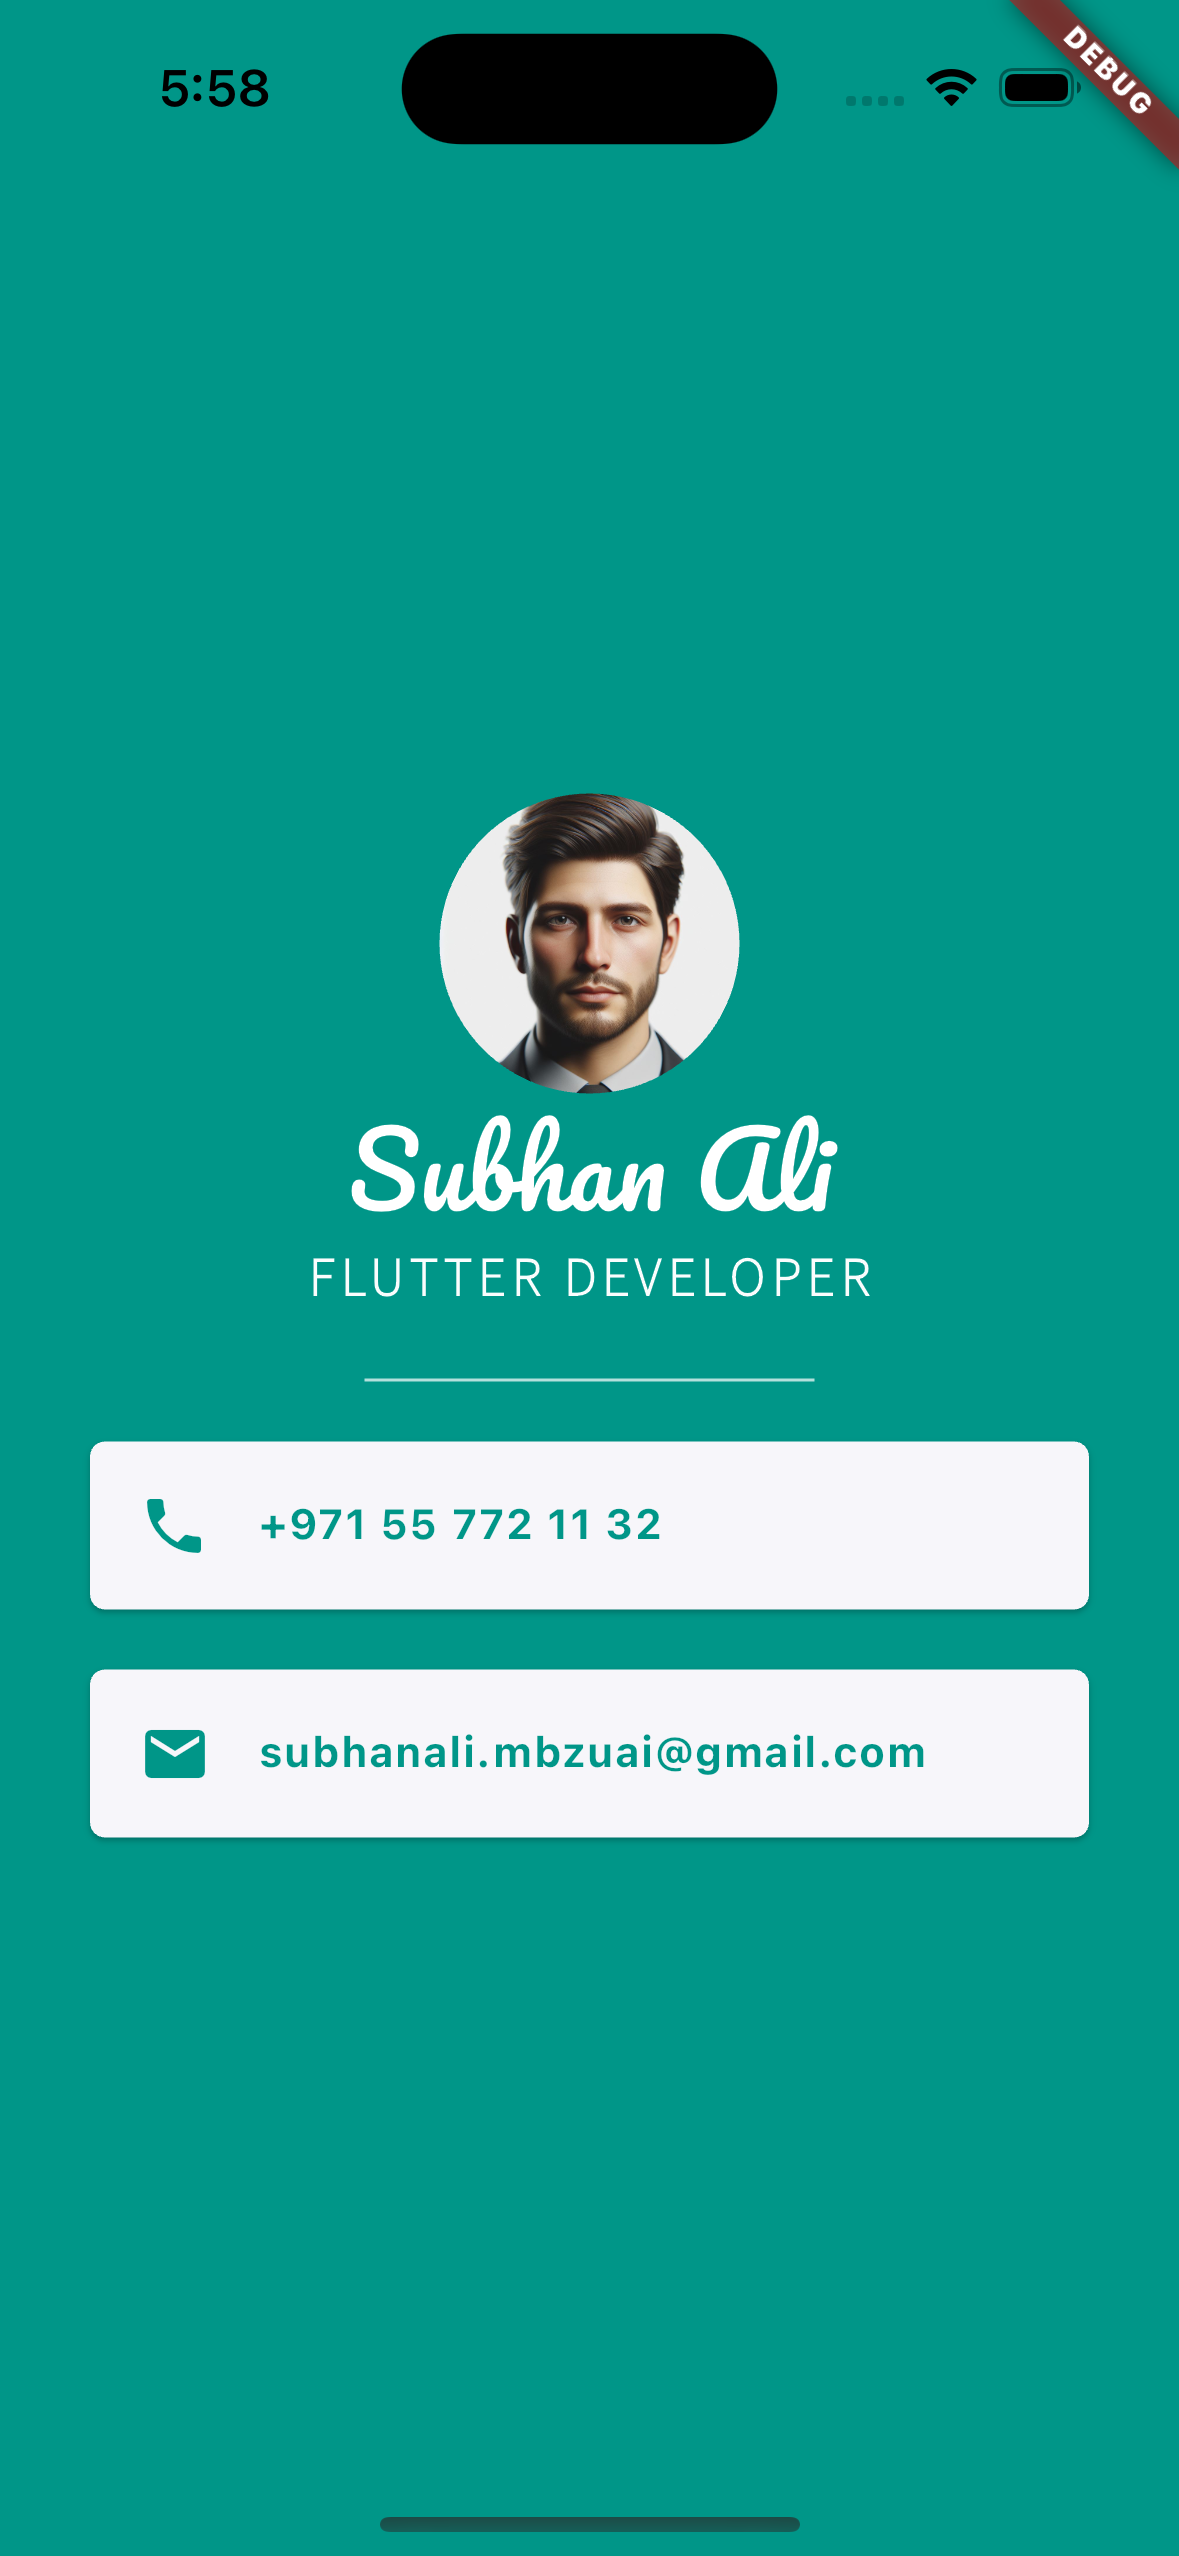
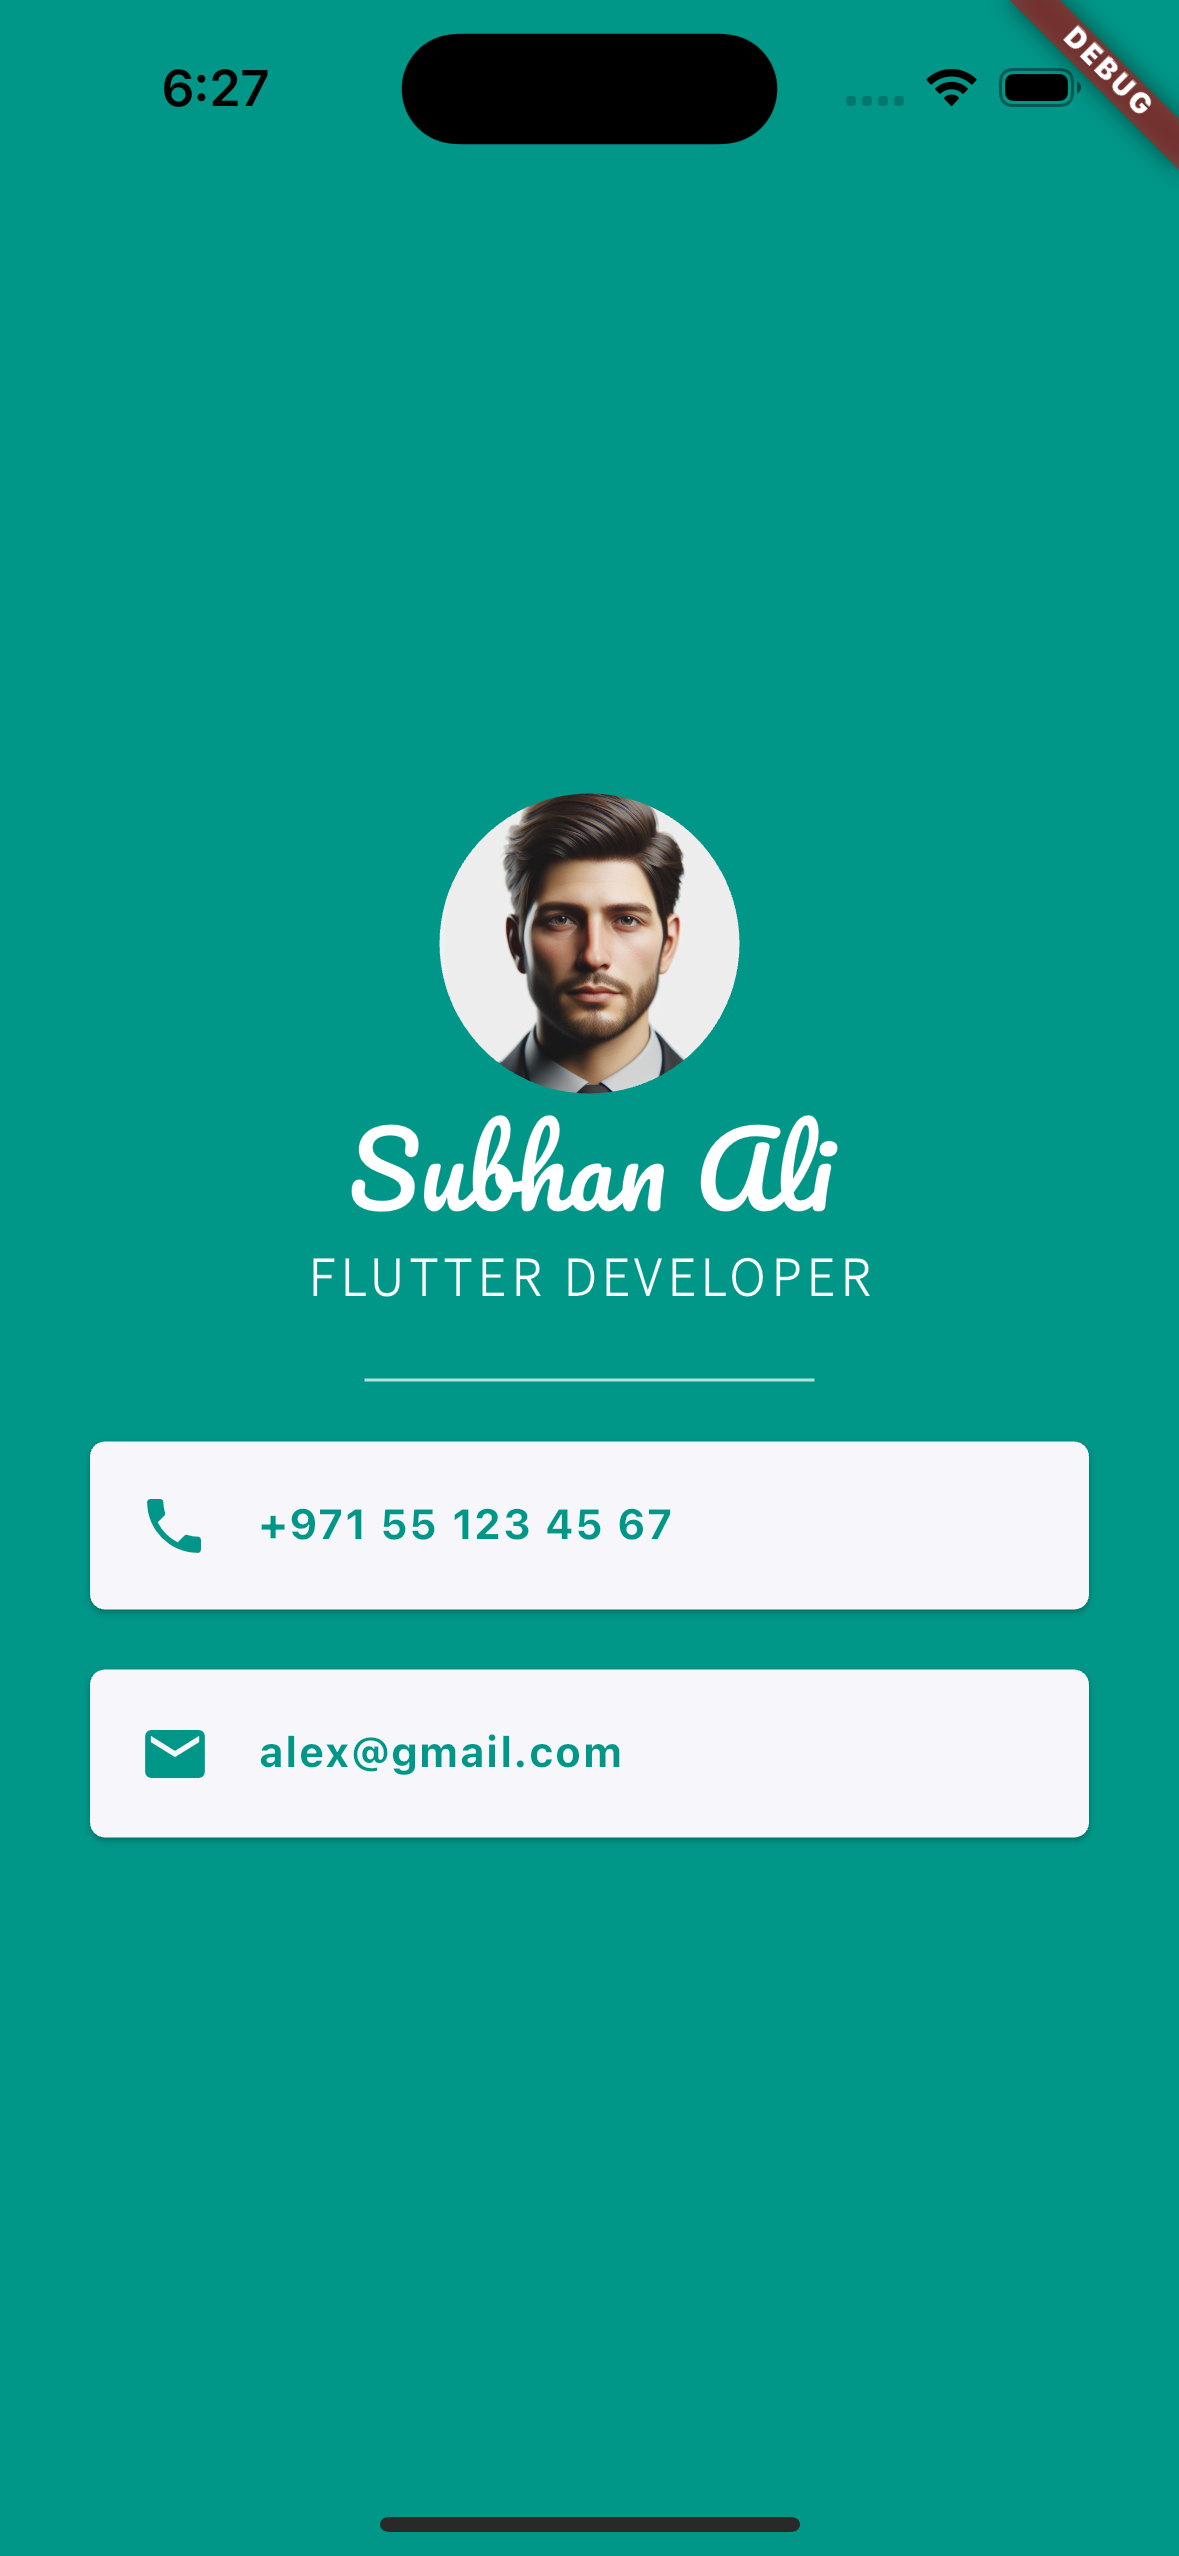
Card information is changed

diff --git a/lib/main.dart b/lib/main.dart
@@ -56,14 +56,14 @@ class MyApp extends StatelessWidget {
               ),
               const IconTextElements(
                 icon: Icons.phone,
-                text: "+971 55 772 11 32",
+                text: "+971 55 123 45 67",
               ),
               SizedBox(
                 height: 20,
               ),
               const IconTextElements(
                 icon: Icons.email,
-                text: "subhanali.mbzuai@gmail.com",
+                text: "alex@gmail.com",
               )
             ],
           ),
